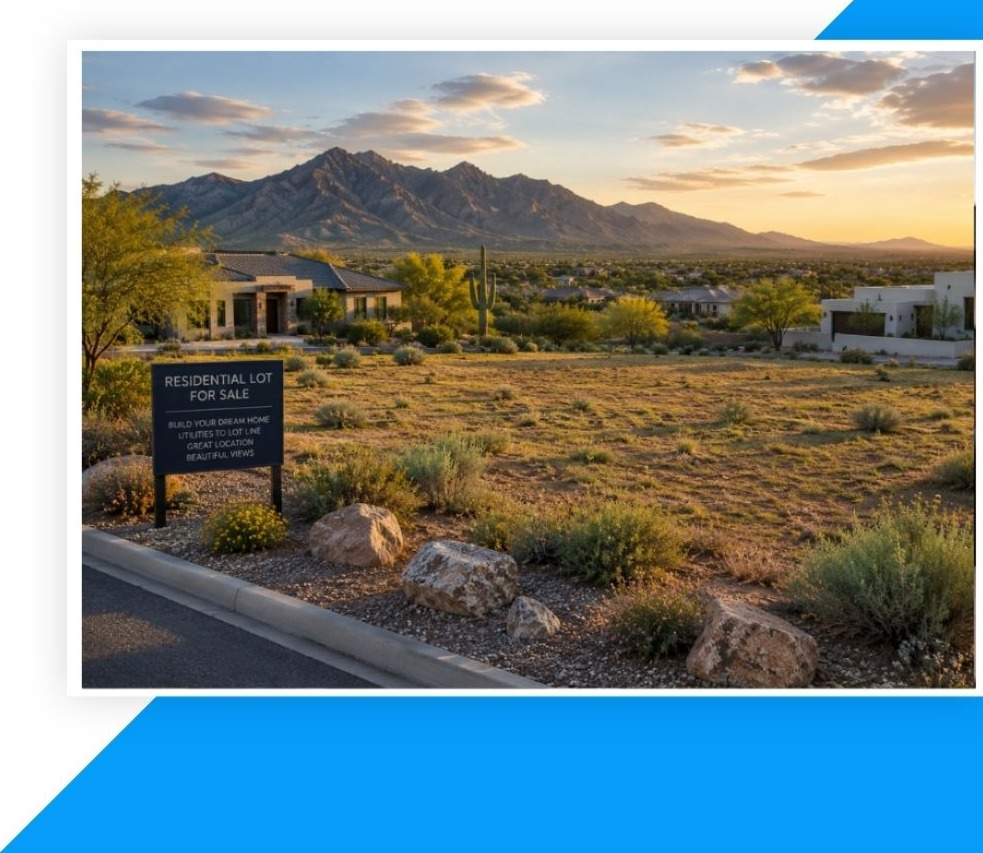
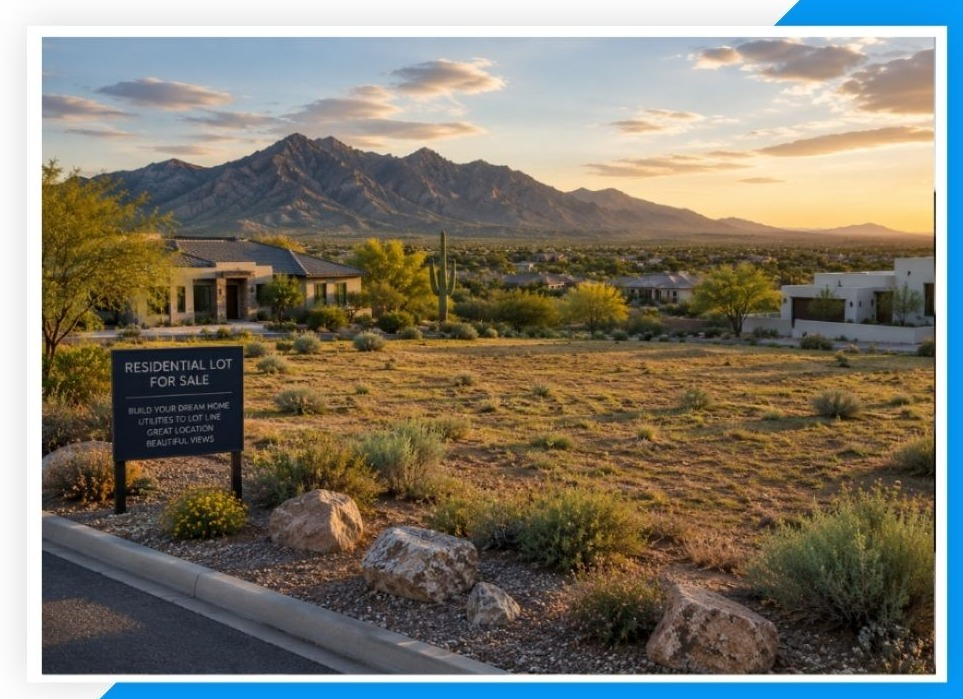
Add files via upload

diff --git a/styles2.css b/styles2.css
@@ -84,10 +84,13 @@ label.hamburger-btn{display:flex;}
 .content-section.theme-books{background:#df712c; color:#fff;}
 .content-section.theme-books .diag{background:#4794a6;}
 
+.content-photo.contain-fit{
+  aspect-ratio:3/2;
+}
 .content-photo.contain-fit img{
-  object-fit:contain;
-  background:#fff;
-  padding:10px;
+  object-fit:cover;
+  background:none;
+  padding:0;
 }
 
 .content-section .diag{
@@ -272,15 +275,23 @@ label.hamburger-btn{display:flex;}
 
 /* ---- Responsive ---- */
 @media (max-width:860px){
-  .content-grid{grid-template-columns:1fr; gap:32px;}
+  .content-grid{grid-template-columns:1fr; gap:18px;}
   .content-grid.photo-left{direction:ltr;}
-  .content-photo{order:-1;}
+  .content-photo{order:-1; aspect-ratio:16/10;}
   .content-section .diag{display:none;}
-  .hero-banner{padding:90px 6vw 50px; align-items:flex-end; min-height:100vh; min-height:100dvh;}
 }
 @media (max-width:600px){
-  .content-section{padding:48px 6vw 54px;}
-  .content-text h1{font-size:2.4rem;}
-  .pill-btn{padding:14px 24px; font-size:0.92rem;}
+  .content-section{padding:64px 5vw 30px; min-height:auto;}
+  .content-text h1{font-size:2.1rem; margin-bottom:6px;}
+  .content-text .subhead{font-size:1.15rem; margin-bottom:12px;}
+  .content-text p.body-text{font-size:0.98rem; margin-bottom:16px; line-height:1.45;}
+  .content-photo{aspect-ratio:16/9; margin-bottom:4px;}
+  .feature-list{gap:10px; margin-bottom:16px;}
+  .feature-list .dot{width:30px; height:30px; font-size:0.85rem;}
+  .feature-list .ftitle{font-size:0.92rem;}
+  .feature-list .fdesc{font-size:0.85rem;}
+  .btn-row{gap:8px;}
+  .pill-btn{padding:12px 20px; font-size:0.88rem;}
   .nav-overlay a{font-size:1.15rem;}
+  .mini-area-grid{max-width:260px;}
 }